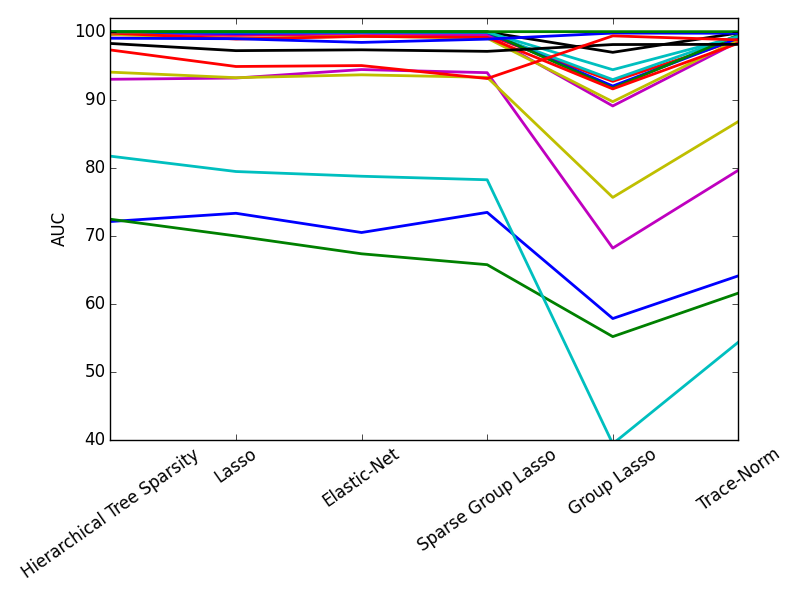
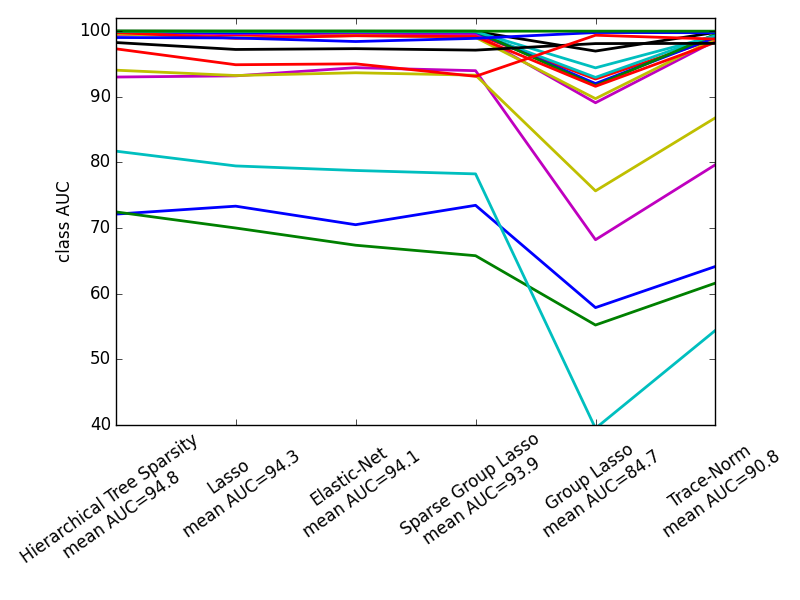
add cit + AUC in 1 tier

Changed region(s): [[0.0312, 0.03, 0.9688, 0.96], [0.375, 0.87, 0.4062, 0.9], [0.2188, 0.87, 0.25, 0.9]]

diff --git a/paper/icml2016/example_paper.tex b/paper/icml2016/example_paper.tex
@@ -1020,7 +1020,7 @@ This supervised estimator shrinks and selects the coefficients
 of topographically compact voxel groups expected to be relevant together.
 %
 Logistic regression with trace-norm penalization
-imposed low-rank structure.
+imposed low-rank structure \cite{harchaoui2012large}.
 This supervised classification algorithm
 expected a minimum of unknown network patterns
 to be relevant.
@@ -1043,19 +1043,25 @@ to be relevant.
 Across analyses,
 hierarchial tree sparsity was most successful
 in distinguishing unseen neural activity maps from 18 psychological tasks
-(89.7\% multi-class accuracy, mean precision 86.7, mean recall 91.5).
+(89.7\% multi-class accuracy, mean AUC 94.8 [+/- 9.1 standard deviation]
+mean precision 86.7, mean recall 91.5).
 It was closely followed by logistic regression
 structured by trace-norm regularization
-(89.4\%, precision 86.4, recall 91.3).
+(89.4\%, mean AUC 90.8 [+/- 14.8],
+precision 86.4, recall 91.3).
 Lasso featured an average performance comparing to the other sparse estimators
-(88.60\%, precision 85.7, recall 90.3).
+(88.60\%, mean AUC 94.3 [+/- 9.3],
+precision 85.7, recall 90.3).
 Elastic-Net, in turn, featured an
 average performance comparing to the other sparse estimators
-(88.1\%, precision 84.8, recall 84.1).
+(88.1\%, mean AUC 94.1 [+/- 10.2],
+precision 84.8, recall 84.1).
 Introducing a priori knowledge of brain region compartments
-by sparse group sparsity (87.9\%, precision 84.8, recall 89.5)
+by sparse group sparsity
+(87.9\%, mean AUC 93.9 [+/- 10.1], precision 84.8, recall 89.5)
 and
-by group sparsity (87.9\%, precision 85.3, recall 90.3)
+by group sparsity
+(87.9\%, mean AUC 84.7 [+/- 17.3], precision 85.3, recall 90.3)
 performed worst.
 %
 In an important subanalysis,
@@ -1386,7 +1392,7 @@ could further be avoided by
 sparse selection of overcomplete region-network dictionaries.
 Non-hierarchical penalty terms will probably allow for
 more complex structured sparsity that
-extend the recently enabled tree dependencies.
+extend the recently enabled parent-children dependencies.
 %
 Ultimately,
 successful high-dimensional inference is

diff --git a/srne_plot_roc.py b/srne_plot_roc.py
@@ -72,6 +72,11 @@ for i_r, r in enumerate(REGS):
     plt.show()
     plt.savefig(dump_path + '_ROC.png')
 
+for i_r, r in enumerate(REGS):
+    print('%s: mean %.2f std: %.2f' % (
+        r, np.mean(auc_mat[i_r, :]), np.std(auc_mat[i_r, :])
+    ))
+
 # summary AUC plot: per classifier
 plt.figure()
 for i_c in range(n_classes):
@@ -93,7 +98,7 @@ for i_r in range(len(REGS)):
              linewidth=2)
 plt.ylim([35., 102.])
 plt.xticks(np.arange(n_classes), np.arange(n_classes) + 1)
-plt.ylabel('AUC [%]')
+plt.ylabel('AUC')
 plt.title('Comparing classifications of 18 classes')
 plt.xlabel('psychological task')
 plt.tight_layout()
